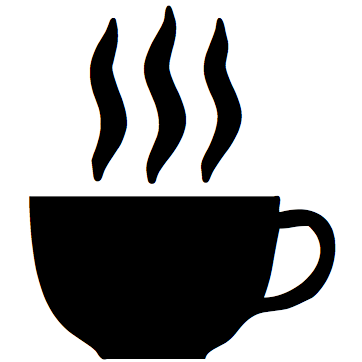
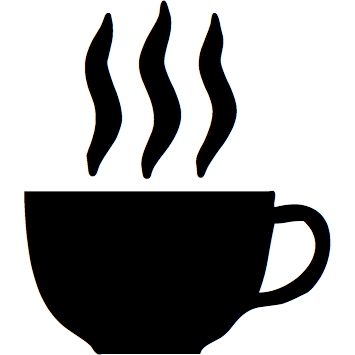
Add shadow to symbol

diff --git a/PlaningPoker/CardSymbol.m b/PlaningPoker/CardSymbol.m
@@ -49,7 +49,7 @@
     CGRect rect = CGRectMake(0.0, 0.0, size, size);
     UIGraphicsBeginImageContext(rect.size);
     CGContextRef context = UIGraphicsGetCurrentContext();
-        
+            
     CGImageRef maskRef = _symbol.CGImage; 
     CGImageRef mask = CGImageMaskCreate(CGImageGetWidth(maskRef),
                                         CGImageGetHeight(maskRef),
@@ -65,13 +65,55 @@
     CGContextFillRect(context, rect);
     
     CGImageRelease(mask);
-
+    
     image = UIGraphicsGetImageFromCurrentImageContext();
     [_cache setObject:image forKey:key];
     
     UIGraphicsEndImageContext();
     
     return image;
+}
+
+- (UIImage *)imageWithSize:(CGFloat)size color:(UIColor *)color shadowOffset:(CGSize)shadowOffset shadowColor:(UIColor *)shadowColor
+{
+    NSString *key = [NSString stringWithFormat:@"image_%f:%@:%f:%f:%@", size, color, shadowOffset.width, shadowOffset.height, shadowColor];
+    UIImage *image = [_cache objectForKey:key];
+    CGFloat shadowMax = MAX(shadowOffset.width, shadowOffset.height);
+    NSLog(@"%f %f %@", shadowOffset.width, shadowOffset.height, shadowColor);
+    if ( image != nil )
+        return image;
+    
+    CGRect rect = CGRectMake(0.0, 0.0, size, size);
+    UIGraphicsBeginImageContext(rect.size);
+    CGContextRef context = UIGraphicsGetCurrentContext();
+    
+    CGContextSetShadowWithColor(context, shadowOffset, 0, shadowColor.CGColor);
+    CGContextBeginTransparencyLayer(context, NULL);
+    
+    CGImageRef maskRef = _symbol.CGImage; 
+    CGImageRef mask = CGImageMaskCreate(CGImageGetWidth(maskRef),
+                                        CGImageGetHeight(maskRef),
+                                        CGImageGetBitsPerComponent(maskRef),
+                                        CGImageGetBitsPerPixel(maskRef),
+                                        CGImageGetBytesPerRow(maskRef),
+                                        CGImageGetDataProvider(maskRef), NULL, true);    
+    
+    CGContextTranslateCTM(context, size - shadowMax, size - shadowMax);
+    CGContextRotateCTM(context, M_PI);
+    CGContextScaleCTM(context, (size - shadowMax) / size, (size - shadowMax) / size);
+    CGContextClipToMask(context, rect, mask);
+    [color setFill];
+    CGContextFillRect(context, rect);
+    
+    CGImageRelease(mask);
+    CGContextEndTransparencyLayer(context);
+    
+    image = UIGraphicsGetImageFromCurrentImageContext();
+    [_cache setObject:image forKey:key];
+    
+    UIGraphicsEndImageContext();
+    
+    return image;    
 }
 
 @end

diff --git a/PlaningPoker/CardHiddenViewController.m b/PlaningPoker/CardHiddenViewController.m
@@ -56,17 +56,20 @@
 {
     [super viewDidLoad];
 
-    [self.cardButton setTitle:self.cardValueString forState:UIControlStateNormal];
-    if ( self.cardValueSymbol != nil ) 
-        [self.cardButton setImage:[self.cardValueSymbol imageWithSize:self.cardButton.titleLabel.font.pointSize color:[self.cardButton titleColorForState:UIControlStateNormal]] forState:UIControlStateNormal];
-    else
-        [self.cardButton setImage:nil forState:UIControlStateNormal];
-        
-    [self.cardButton setBackgroundImage:[self.delegate.currentCardBackground normal:self.cardButton.frame.size cardValue:self.cardValueString] forState:UIControlStateNormal];
     [self.cardButton setTitleColor:self.delegate.currentCardBackground.textColor forState:UIControlStateNormal];
     [self.cardButton setTitleColor:self.delegate.currentCardBackground.textColor forState:UIControlStateHighlighted];
     [self.cardButton setTitleShadowColor:self.delegate.currentCardBackground.shadowColor forState:UIControlStateNormal];
     [self.cardButton setTitleShadowColor:self.delegate.currentCardBackground.shadowColor forState:UIControlStateHighlighted];    
+    [self.cardButton setTitle:self.cardValueString forState:UIControlStateNormal];
+    if ( self.cardValueSymbol != nil ) 
+        [self.cardButton setImage:[self.cardValueSymbol imageWithSize:self.cardButton.titleLabel.font.pointSize 
+                                                                color:[self.cardButton titleColorForState:UIControlStateNormal]
+                                                         shadowOffset:self.cardButton.titleLabel.shadowOffset
+                                                          shadowColor:[self.cardButton titleShadowColorForState:UIControlStateNormal]] forState:UIControlStateNormal];
+    else
+        [self.cardButton setImage:nil forState:UIControlStateNormal];
+        
+    [self.cardButton setBackgroundImage:[self.delegate.currentCardBackground normal:self.cardButton.frame.size cardValue:self.cardValueString] forState:UIControlStateNormal];
     [self.revealButton setBackgroundImage:[self.delegate.currentCardBackground hidden:self.revealButton.frame.size] forState:UIControlStateNormal];
     if (!self.delegate.hideSelectedCard) {
         [self.revealButton setHidden:YES];

diff --git a/PlaningPoker/CardDeckViewController.m b/PlaningPoker/CardDeckViewController.m
@@ -94,7 +94,10 @@
                 [button setTitle:nil
                         forState:UIControlStateNormal];
                 [button setBackgroundImage:[self.currentCardBackground normal:button.frame.size cardValue:nil] forState:UIControlStateNormal];
-                [button setImage:[cardValue imageWithSize:button.titleLabel.font.pointSize color:[button titleColorForState:UIControlStateNormal]] forState:UIControlStateNormal];
+                [button setImage:[cardValue imageWithSize:button.titleLabel.font.pointSize 
+                                                    color:[button titleColorForState:UIControlStateNormal]
+                                             shadowOffset:button.titleLabel.shadowOffset
+                                              shadowColor:[button titleShadowColorForState:UIControlStateNormal]] forState:UIControlStateNormal];
             }
         }
     } 

diff --git a/PlaningPoker/CardSymbol.h b/PlaningPoker/CardSymbol.h
@@ -19,5 +19,6 @@
 
 - (id)initWithImage:(UIImage *)image;
 - (UIImage *)imageWithSize:(CGFloat)size color:(UIColor *)color;
+- (UIImage *)imageWithSize:(CGFloat)size color:(UIColor *)color shadowOffset:(CGSize)shadowOffset shadowColor:(UIColor *)shadowColor;
 
 @end
